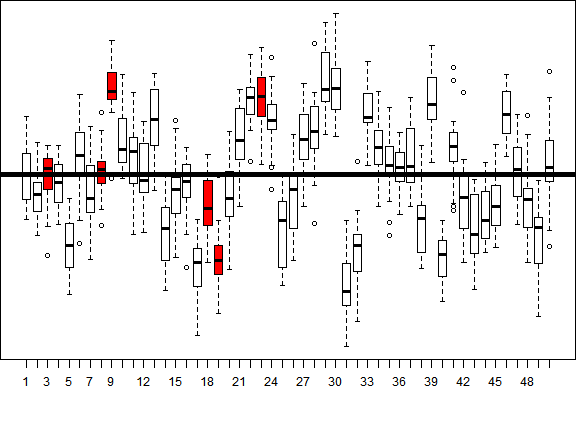
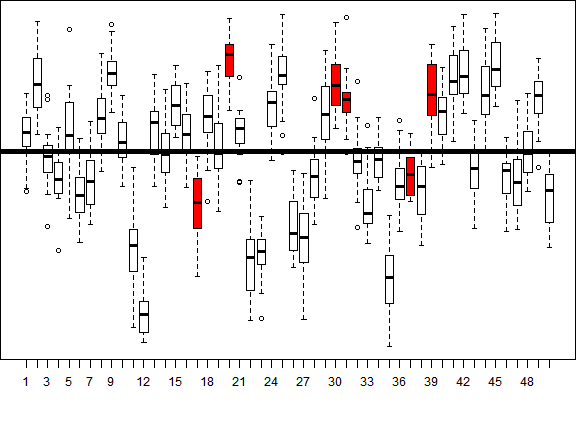
2012-07-12 Second

diff --git a/Class_7.html b/Class_7.html
@@ -74,22 +74,22 @@ S.D. of residuals: 3</p>
        <article>
          <div class="chunk"><div class="rcode"><div class="source"><pre class="knitr"><span class="symbol">model.fixed</span><span class="assignement">&lt;-</span><span class="functioncall">lm</span><span class="keyword">(</span><span class="symbol">y</span><span class="keyword">~</span><span class="symbol">x</span><span class="keyword">,</span> <span class="symbol">data</span><span class="keyword">)</span>
 <span class="functioncall">print</span><span class="keyword">(</span><span class="functioncall">summary</span><span class="keyword">(</span><span class="symbol">model.fixed</span><span class="keyword">)</span><span class="keyword">$</span><span class="symbol">coef</span><span class="keyword">,</span> <span class="argument">dig</span><span class="argument">=</span><span class="number">3</span><span class="keyword">)</span>
-</pre></div><div class="output"><pre class="knitr">##             Estimate Std. Error t value  Pr(>|t|)
-## (Intercept)   49.812      0.588  84.708 8.83e-105
-## x8             0.398      0.832   0.478  6.34e-01
-## x9             7.952      0.832   9.562  2.91e-16
-## x18           -2.733      0.832  -3.286  1.35e-03
-## x19           -7.578      0.832  -9.113  3.23e-15
-## x23            7.267      0.832   8.739  2.36e-14
+</pre></div><div class="output"><pre class="knitr">##             Estimate Std. Error t value Pr(>|t|)
+## (Intercept)    44.58      0.652   68.36 2.29e-94
+## x20            14.68      0.922   15.92 9.69e-31
+## x30            12.36      0.922   13.40 3.64e-25
+## x31            10.77      0.922   11.68 3.40e-21
+## x37             3.09      0.922    3.35 1.10e-03
+## x39            11.12      0.922   12.05 4.48e-22
 </pre></div><div class="source"><pre class="knitr"><span class="symbol">model.fixed.mean</span><span class="assignement">&lt;-</span><span class="functioncall">lm</span><span class="keyword">(</span><span class="symbol">y</span><span class="keyword">~</span><span class="symbol">x</span><span class="keyword">-</span><span class="number">1</span><span class="keyword">,</span> <span class="symbol">data</span><span class="keyword">)</span>
 <span class="functioncall">print</span><span class="keyword">(</span><span class="functioncall">summary</span><span class="keyword">(</span><span class="symbol">model.fixed.mean</span><span class="keyword">)</span><span class="keyword">$</span><span class="symbol">coef</span><span class="keyword">,</span> <span class="argument">dig</span><span class="argument">=</span><span class="number">3</span><span class="keyword">)</span>
 </pre></div><div class="output"><pre class="knitr">##     Estimate Std. Error t value  Pr(>|t|)
-## x3      49.8      0.588    84.7 8.83e-105
-## x8      50.2      0.588    85.4 3.62e-105
-## x9      57.8      0.588    98.2 5.15e-112
-## x18     47.1      0.588    80.1 4.94e-102
-## x19     42.2      0.588    71.8  9.28e-97
-## x23     57.1      0.588    97.1 1.97e-111
+## x17     44.6      0.652    68.4  2.29e-94
+## x20     59.3      0.652    90.9 3.32e-108
+## x30     56.9      0.652    87.3 2.96e-106
+## x31     55.4      0.652    84.9 7.14e-105
+## x37     47.7      0.652    73.1  1.31e-97
+## x39     55.7      0.652    85.4 3.52e-105
 </pre></div></div></div>
 
        </article>
@@ -109,19 +109,19 @@ S.D. of residuals: 3</p>
 ## Formula: y ~ 1 + (1 | x) 
 ##    Data: data 
 ##  AIC BIC logLik deviance REMLdev
-##  602 610   -298      599     596
+##  625 633   -310      623     619
 ## Random effects:
 ##  Groups   Name        Variance Std.Dev.
-##  x        (Intercept) 34.94    5.91    
-##  Residual              6.92    2.63    
+##  x        (Intercept) 32.87    5.73    
+##  Residual              8.51    2.92    
 ## Number of obs: 120, groups: x, 6
 ## 
 ## Fixed effects:
 ##             Estimate Std. Error t value
-## (Intercept)    50.70       2.42    20.9
-</pre></div><div class="output"><pre class="knitr">## Population grand mean      :  34.937
-</pre></div><div class="output"><pre class="knitr">## S.D. of subpopulation means:  5.9108
-</pre></div><div class="output"><pre class="knitr">## S.D. of residuals          :  2.6298
+## (Intercept)    53.25       2.36    22.6
+</pre></div><div class="output"><pre class="knitr">## Population grand mean      :  32.865
+</pre></div><div class="output"><pre class="knitr">## S.D. of subpopulation means:  5.7328
+</pre></div><div class="output"><pre class="knitr">## S.D. of residuals          :  2.9167
 </pre></div></div></div>
 
        </article>
@@ -129,12 +129,12 @@ S.D. of residuals: 3</p>
          <div class="chunk"><div class="rimage default"><img src="figure/class703.png" class="plot" /></div><div class="rcode">
 <div class="output"><pre class="knitr">## $x
 ##    (Intercept)
-## 3     -0.87566
-## 8     -0.48197
-## 9      6.99858
-## 18    -3.58158
-## 19    -8.37970
-## 23     6.32033
+## 17     -8.5585
+## 20      5.9344
+## 30      3.6431
+## 31      2.0723
+## 37     -5.5090
+## 39      2.4176
 ## 
 </pre></div></div></div>
 
@@ -162,24 +162,24 @@ Number of elevation: 3</p>
 ## lm(formula = wing ~ pop + elev)
 ## 
 ## Residuals:
-##     Min      1Q  Median      3Q     Max 
-## -11.909  -2.328  -0.052   2.491  12.190 
+##    Min     1Q Median     3Q    Max 
+## -9.505 -2.527  0.029  2.545 11.153 
 ## 
 ## Coefficients:
 ##             Estimate Std. Error t value Pr(>|t|)    
-## (Intercept)   39.352      0.376  104.58  < 2e-16 ***
-## pop2          -9.379      0.450  -20.85  < 2e-16 ***
-## pop3          -3.740      0.450   -8.32  6.2e-16 ***
-## pop4           5.911      0.450   13.14  < 2e-16 ***
-## pop5          11.364      0.450   25.27  < 2e-16 ***
-## elev2          5.658      0.348   16.24  < 2e-16 ***
-## elev3         10.503      0.348   30.15  < 2e-16 ***
+## (Intercept)   39.162      0.383  102.25  < 2e-16 ***
+## pop2          -8.917      0.458  -19.48  < 2e-16 ***
+## pop3          -3.788      0.458   -8.28  8.5e-16 ***
+## pop4           6.176      0.458   13.49  < 2e-16 ***
+## pop5          10.798      0.458   23.59  < 2e-16 ***
+## elev2          5.864      0.355   16.54  < 2e-16 ***
+## elev3         11.108      0.355   31.33  < 2e-16 ***
 ## ---
 ## Signif. codes:  0 '***' 0.001 '**' 0.01 '*' 0.05 '.' 0.1 ' ' 1 
 ## 
-## Residual standard error: 3.48 on 593 degrees of freedom
-## Multiple R-squared: 0.855,   Adjusted R-squared: 0.854 
-## F-statistic:  584 on 6 and 593 DF,  p-value: <2e-16 
+## Residual standard error: 3.55 on 593 degrees of freedom
+## Multiple R-squared: 0.848,   Adjusted R-squared: 0.847 
+## F-statistic:  553 on 6 and 593 DF,  p-value: <2e-16 
 ## 
 </pre></div></div></div>
 
@@ -190,9 +190,9 @@ Number of elevation: 3</p>
 ## 
 ## Response: wing
 ##            Df Sum Sq Mean Sq F value Pr(>F)    
-## pop         4  31509    7877     649 <2e-16 ***
-## elev        2  11054    5527     455 <2e-16 ***
-## Residuals 593   7197      12                   
+## pop         4  29396    7349     584 <2e-16 ***
+## elev        2  12353    6176     491 <2e-16 ***
+## Residuals 593   7456      13                   
 ## ---
 ## Signif. codes:  0 '***' 0.001 '**' 0.01 '*' 0.05 '.' 0.1 ' ' 1 
 </pre></div></div></div>
@@ -201,10 +201,12 @@ Number of elevation: 3</p>
        <article>
          <div class="chunk"><div class="rcode"><div class="source"><pre class="knitr"><span class="functioncall">require</span><span class="keyword">(</span><span class="symbol">effects</span><span class="keyword">)</span>
 <span class="functioncall">plot</span><span class="keyword">(</span><span class="functioncall">allEffects</span><span class="keyword">(</span><span class="symbol">model.twoway</span><span class="keyword">)</span><span class="keyword">,</span> <span class="argument">ask</span><span class="argument">=</span><span class="number">FALSE</span><span class="keyword">)</span>
-</pre></div><div class="error"><pre class="knitr">## Error: error in evaluating the argument 'x' in selecting a method for
-## function 'plot': Error in model.frame.default(wing ~ pop + elev + (pop +
-## elev), subset = NULL, : variable lengths differ (found for 'pop')
-</pre></div></div></div>
+</pre></div></div><div class="rimage default"><img src="figure/class705.png" class="plot" /></div></div>
+
+       </article>
+       <article>
+         <div class="chunk"><div class="rcode"><div class="source"><pre class="knitr"><span class="functioncall">plot</span><span class="keyword">(</span><span class="functioncall">effect</span><span class="keyword">(</span><span class="string">'elev'</span><span class="keyword">,</span> <span class="symbol">model.twoway</span><span class="keyword">)</span><span class="keyword">)</span>
+</pre></div></div><div class="rimage default"><img src="figure/class706.png" class="plot" /></div></div>
 
        </article>
        <article>
@@ -216,31 +218,31 @@ Number of elevation: 3</p>
 ## 
 ## Residuals:
 ##    Min     1Q Median     3Q    Max 
-## -9.741 -2.182  0.078  1.983  9.428 
+## -7.726 -2.084  0.048  2.142  9.224 
 ## 
 ## Coefficients:
 ##             Estimate Std. Error t value Pr(>|t|)    
-## (Intercept)   40.861      0.488   83.70  < 2e-16 ***
-## pop2         -11.082      0.690  -16.05  < 2e-16 ***
-## pop3          -5.725      0.690   -8.29  7.6e-16 ***
-## pop4           3.481      0.690    5.04  6.2e-07 ***
-## pop5           9.939      0.690   14.40  < 2e-16 ***
-## elev2          3.454      0.690    5.00  7.5e-07 ***
-## elev3          8.181      0.690   11.85  < 2e-16 ***
-## pop2:elev2    -0.169      0.976   -0.17    0.863    
-## pop3:elev2     4.393      0.976    4.50  8.2e-06 ***
-## pop4:elev2     2.178      0.976    2.23    0.026 *  
-## pop5:elev2     4.618      0.976    4.73  2.8e-06 ***
-## pop2:elev3     5.279      0.976    5.41  9.4e-08 ***
-## pop3:elev3     1.561      0.976    1.60    0.110    
-## pop4:elev3     5.114      0.976    5.24  2.3e-07 ***
-## pop5:elev3    -0.344      0.976   -0.35    0.725    
+## (Intercept)   39.516      0.473   83.49  < 2e-16 ***
+## pop2          -9.192      0.669  -13.73  < 2e-16 ***
+## pop3          -4.223      0.669   -6.31  5.5e-10 ***
+## pop4           5.317      0.669    7.94  1.0e-14 ***
+## pop5          10.594      0.669   15.83  < 2e-16 ***
+## elev2          4.926      0.669    7.36  6.3e-13 ***
+## elev3         10.984      0.669   16.41  < 2e-16 ***
+## pop2:elev2    -2.467      0.947   -2.61  0.00939 ** 
+## pop3:elev2     2.947      0.947    3.11  0.00194 ** 
+## pop4:elev2     0.229      0.947    0.24  0.80884    
+## pop5:elev2     3.983      0.947    4.21  3.0e-05 ***
+## pop2:elev3     3.292      0.947    3.48  0.00054 ***
+## pop3:elev3    -1.644      0.947   -1.74  0.08292 .  
+## pop4:elev3     2.347      0.947    2.48  0.01345 *  
+## pop5:elev3    -3.372      0.947   -3.56  0.00040 ***
 ## ---
 ## Signif. codes:  0 '***' 0.001 '**' 0.01 '*' 0.05 '.' 0.1 ' ' 1 
 ## 
-## Residual standard error: 3.09 on 585 degrees of freedom
-## Multiple R-squared: 0.888,   Adjusted R-squared: 0.885 
-## F-statistic:  331 on 14 and 585 DF,  p-value: <2e-16 
+## Residual standard error: 2.99 on 585 degrees of freedom
+## Multiple R-squared: 0.893,   Adjusted R-squared: 0.891 
+## F-statistic:  350 on 14 and 585 DF,  p-value: <2e-16 
 ## 
 </pre></div></div></div>
 
@@ -251,10 +253,10 @@ Number of elevation: 3</p>
 ## 
 ## Response: wing
 ##            Df Sum Sq Mean Sq F value Pr(>F)    
-## pop         4  31509    7877   826.4 <2e-16 ***
-## elev        2  11054    5527   579.9 <2e-16 ***
-## pop:elev    8   1621     203    21.3 <2e-16 ***
-## Residuals 585   5576      10                   
+## pop         4  29396    7349   820.2 <2e-16 ***
+## elev        2  12353    6176   689.4 <2e-16 ***
+## pop:elev    8   2215     277    30.9 <2e-16 ***
+## Residuals 585   5241       9                   
 ## ---
 ## Signif. codes:  0 '***' 0.001 '**' 0.01 '*' 0.05 '.' 0.1 ' ' 1 
 </pre></div></div></div>
@@ -262,10 +264,7 @@ Number of elevation: 3</p>
        </article>
        <article>
          <div class="chunk"><div class="rcode"><div class="source"><pre class="knitr"><span class="functioncall">plot</span><span class="keyword">(</span><span class="functioncall">effect</span><span class="keyword">(</span><span class="string">'pop:elev'</span><span class="keyword">,</span> <span class="symbol">model.interaction</span><span class="keyword">)</span><span class="keyword">)</span>
-</pre></div><div class="error"><pre class="knitr">## Error: error in evaluating the argument 'x' in selecting a method for
-## function 'plot': Error in model.frame.default(wing ~ pop * elev + (pop +
-## elev), subset = NULL, : variable lengths differ (found for 'pop')
-</pre></div></div></div>
+</pre></div></div><div class="rimage default"><img src="figure/class707.png" class="plot" /></div></div>
 
        </article>
        <article>
@@ -287,30 +286,30 @@ Number of elevation: 3</p>
 
        </article>
        <article>
-         <div class="chunk"><div class="rcode"><div class="source"><pre class="knitr"><span class="symbol">model.ancova</span><span class="assignement">&lt;-</span><span class="functioncall">lm</span><span class="keyword">(</span><span class="symbol">mass</span><span class="keyword">~</span><span class="symbol">pop</span><span class="keyword">*</span><span class="symbol">length</span><span class="keyword">)</span>
+         <div class="chunk"><div class="rcode"><div class="source"><pre class="knitr"><span class="symbol">model.ancova</span><span class="assignement">&lt;-</span><span class="functioncall">lm</span><span class="keyword">(</span><span class="symbol">mass</span><span class="keyword">~</span><span class="symbol">pop2</span><span class="keyword">*</span><span class="symbol">length</span><span class="keyword">)</span>
 <span class="functioncall">print</span><span class="keyword">(</span><span class="functioncall">summary</span><span class="keyword">(</span><span class="symbol">model.ancova</span><span class="keyword">)</span><span class="keyword">,</span> <span class="argument">dig</span><span class="argument">=</span><span class="number">3</span><span class="keyword">)</span>
 </pre></div><div class="output"><pre class="knitr">## 
 ## Call:
-## lm(formula = mass ~ pop * length)
+## lm(formula = mass ~ pop2 * length)
 ## 
 ## Residuals:
 ##     Min      1Q  Median      3Q     Max 
-## -20.156  -6.293  -0.948   7.068  19.675 
+## -15.394  -5.717  -0.894   7.353  23.767 
 ## 
 ## Coefficients:
-##                  Estimate Std. Error t value Pr(>|t|)    
-## (Intercept)      -254.716     18.235  -13.97  < 2e-16 ***
-## popMassif         115.924     32.296    3.59  0.00071 ***
-## popJura           203.150     24.310    8.36  2.6e-11 ***
-## length              6.088      0.311   19.59  < 2e-16 ***
-## popMassif:length   -2.394      0.561   -4.27  7.9e-05 ***
-## popJura:length     -4.043      0.418   -9.68  2.1e-13 ***
+##                   Estimate Std. Error t value Pr(>|t|)    
+## (Intercept)       -244.253     18.693  -13.07  < 2e-16 ***
+## pop2Massif         119.456     24.636    4.85  1.1e-05 ***
+## pop2Jura           172.869     24.114    7.17  2.2e-09 ***
+## length               5.907      0.329   17.94  < 2e-16 ***
+## pop2Massif:length   -2.369      0.443   -5.35  1.8e-06 ***
+## pop2Jura:length     -3.576      0.428   -8.36  2.6e-11 ***
 ## ---
 ## Signif. codes:  0 '***' 0.001 '**' 0.01 '*' 0.05 '.' 0.1 ' ' 1 
 ## 
-## Residual standard error: 10.3 on 54 degrees of freedom
-## Multiple R-squared: 0.921,   Adjusted R-squared: 0.913 
-## F-statistic:  126 on 5 and 54 DF,  p-value: <2e-16 
+## Residual standard error: 8.75 on 54 degrees of freedom
+## Multiple R-squared: 0.926,   Adjusted R-squared: 0.92 
+## F-statistic:  136 on 5 and 54 DF,  p-value: <2e-16 
 ## 
 </pre></div></div></div>
 
@@ -320,11 +319,11 @@ Number of elevation: 3</p>
 </pre></div><div class="output"><pre class="knitr">## Analysis of Variance Table
 ## 
 ## Response: mass
-##            Df Sum Sq Mean Sq F value  Pr(>F)    
-## pop         2  13560    6780    63.8 6.0e-15 ***
-## length      1  43178   43178   406.3 < 2e-16 ***
-## pop:length  2   9971    4986    46.9 1.6e-12 ***
-## Residuals  54   5739     106                    
+##             Df Sum Sq Mean Sq F value  Pr(>F)    
+## pop2         2  10912    5456    71.2 7.3e-16 ***
+## length       1  35792   35792   467.0 < 2e-16 ***
+## pop2:length  2   5392    2696    35.2 1.7e-10 ***
+## Residuals   54   4138      77                    
 ## ---
 ## Signif. codes:  0 '***' 0.001 '**' 0.01 '*' 0.05 '.' 0.1 ' ' 1 
 </pre></div></div></div>
